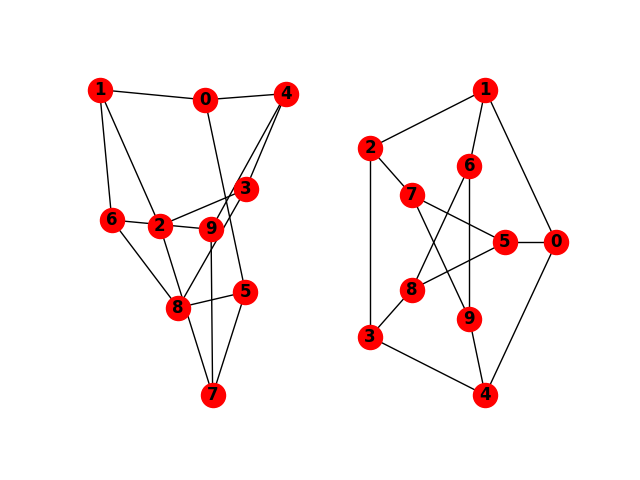
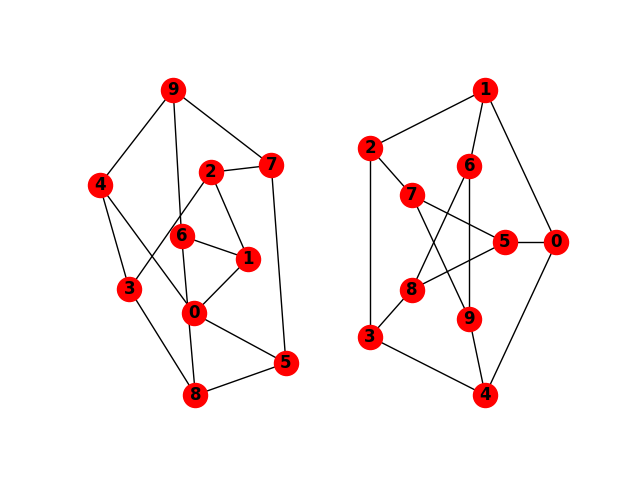
Petersen Graph updated

Changed region(s): [[0.125, 0.1562, 0.4688, 0.875], [0.4062, 0.625, 0.4688, 0.7812]]

diff --git a/NetworkX/Petersen_Graph.py b/NetworkX/Petersen_Graph.py
@@ -11,3 +11,31 @@ nx.draw_shell(G, nlist = [range(5, 10), range(5)], with_labels = True, font_weig
 
 plt.savefig('Petersen_Graph_1.png')
 plt.show()
+
+# adding new layout options:
+
+# create a dictionary that will be passed as a parameter
+options = {
+    'node_color' : 'black',
+    'node_size' : 100,
+    'width' : 3,
+}
+
+plt.subplot(221)
+nx.draw_random(G, **options)
+plt.title('Random plot')
+
+plt.subplot(222)
+nx.draw_shell(G, **options)
+plt.title('Shell plot')
+
+plt.subplot(223)
+nx.draw_circular(G, **options)
+plt.title('Circular plot')
+
+plt.subplot(224)
+nx.draw_spectral(G, **options)
+plt.title('Spectral plot')
+
+plt.savefig('Petersen_Graph_2.png')
+plt.show()
